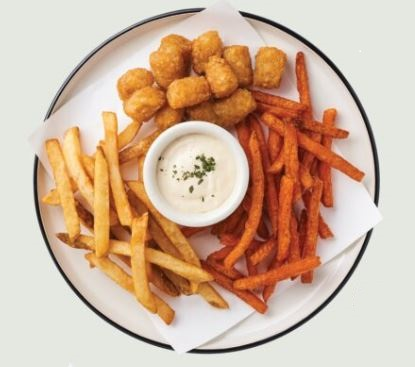
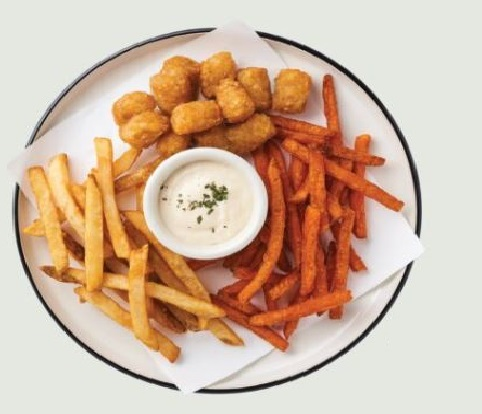
change photo path

diff --git a/database/seeders/ItemSeeder.php b/database/seeders/ItemSeeder.php
@@ -17,135 +17,144 @@ class ItemSeeder extends Seeder
             [
                 'name' => 'Aglio Olio',
                 'description' => 'Olive Oil + Pork Bacon + Mushroom Chicken',
-                'price' => '18.90',
+                'price' => 18.90,
                 'category' => 'food',
-                'photo' => 'public/img/aglio_olio.jpg',
+                'photo' => '/img/aglio_olio.jpg',
                 "created_at" =>  \Carbon\Carbon::now(),
                 "updated_at" => \Carbon\Carbon::now()
             ],
             [
                 'name' => 'Curry Pasta',
                 'description' => 'Homecook Curry Chicken',
-                'price' => '18.90',
+                'price' => 18.90,
                 'category' => 'food',
-                'photo' => 'public/img/curry_pasta.jpg',
+                'photo' => '/img/curry_pasta.jpg',
                 "created_at" =>  \Carbon\Carbon::now(),
                 "updated_at" => \Carbon\Carbon::now()
             ],
             [
                 'name' => 'Pesto Pasta',
                 'description' => 'Homemade Pesto + Mushroom Chicken',
-                'price' => '18.90',
+                'price' => 18.90,
                 'category' => 'food',
-                'photo' => 'public/img/pesto_pasta.jpg',
+                'photo' => '/img/pesto_pasta.jpg',
                 "created_at" =>  \Carbon\Carbon::now(),
                 "updated_at" => \Carbon\Carbon::now()
             ],
             [
                 'name' => 'Bagel Love',
                 'description' => 'Bagel + Egg + Bacon + Greens + Fries',
-                'price' => '18.90',
+                'price' => 18.90,
                 'category' => 'food',
-                'photo' => 'public/img/bagel_love.jpg',
+                'photo' => '/img/bagel_love.jpg',
                 "created_at" =>  \Carbon\Carbon::now(),
                 "updated_at" => \Carbon\Carbon::now()
             ],
             [
                 'name' => 'Fish Fillet Cheese Burger',
                 'description' => 'Sesame Bun + Mozzarella + Deep Sea Fish + Greens + Fries',
-                'price' => '17.90',
+                'price' => 17.90,
                 'category' => 'food',
-                'photo' => 'public/img/fish_fillet_burger.jpg',
+                'photo' => '/img/fish_fillet_burger.jpg',
                 "created_at" =>  \Carbon\Carbon::now(),
                 "updated_at" => \Carbon\Carbon::now()
             ],
             [
                 'name' => 'Chicken Charcoal Burger',
                 'description' => 'Charcoal Bun + Special Marinated Chicken + Greens + Fries',
-                'price' => '21.90',
+                'price' => 21.90,
                 'category' => 'food',
-                'photo' => 'public/img/chicken_charcoal_burger.jpg',
+                'photo' => '/img/chicken_charcoal_burger.jpg',
                 "created_at" =>  \Carbon\Carbon::now(),
                 "updated_at" => \Carbon\Carbon::now()
             ],
             [
                 'name' => 'Mr. Potato',
                 'description' => 'Sweet Potato Fries + Tater Tots + Fries',
-                'price' => '10.00',
+                'price' => 10.00,
                 'category' => 'food',
-                'photo' => 'public/img/chicken_charcoal_burger.jpg',
+                'photo' => '/img/chicken_charcoal_burger.jpg',
                 "created_at" =>  \Carbon\Carbon::now(),
                 "updated_at" => \Carbon\Carbon::now()
             ],
             [
                 'name' => 'Mango Tango',
                 'description' => 'Warm Waffle + Sliced Manage + Vanilla Ice Cream',
-                'price' => '19.90',
+                'price' => 19.90,
                 'category' => 'dessert',
-                'photo' => 'public/img/mango_tango.jpg',
+                'photo' => '/img/mango_tango.jpg',
                 "created_at" =>  \Carbon\Carbon::now(),
                 "updated_at" => \Carbon\Carbon::now()
             ],
             [
                 'name' => 'Nuna Waffle',
                 'description' => 'Sweet Waffle + Nutella + Chocolate Ice Cream',
-                'price' => '14.90',
+                'price' => 14.90,
                 'category' => 'dessert',
-                'photo' => 'public/img/nuna_waffle.jpg',
+                'photo' => '/img/nuna_waffle.jpg',
                 "created_at" =>  \Carbon\Carbon::now(),
                 "updated_at" => \Carbon\Carbon::now()
             ],
             [
                 'name' => 'Passion Dream',
                 'description' => 'Sweet Waffle + Passion Fruit + Vanilla Ice Cream',
-                'price' => '14.90',
+                'price' => 14.90,
                 'category' => 'dessert',
-                'photo' => 'public/img/mango_tango.jpg',
+                'photo' => '/img/mango_tango.jpg',
                 "created_at" =>  \Carbon\Carbon::now(),
                 "updated_at" => \Carbon\Carbon::now()
             ],
             [
                 'name' => 'Banana Kick',
                 'description' => 'Warm Waffle + Sliced Banana + Chocolate Ice Cream',
-                'price' => '18.90',
+                'price' => 18.90,
                 'category' => 'dessert',
-                'photo' => 'public/img/banana_kick.jpg',
+                'photo' => '/img/banana_kick.jpg',
+                "created_at" =>  \Carbon\Carbon::now(),
+                "updated_at" => \Carbon\Carbon::now()
+            ],
+            [
+                'name' => 'Rainbow Love',
+                'description' => 'Sweet Waffle + Mix Fruits + Strawberry Puree + Vanilla Ice Cream',
+                'price' => 19.90,
+                'category' => 'dessert',
+                'photo' => '/img/rainbow_love.jpg',
                 "created_at" =>  \Carbon\Carbon::now(),
                 "updated_at" => \Carbon\Carbon::now()
             ],
             [
                 'name' => 'Latte',
                 'description' => 'Dark roast espresso topped with steamed milk',
-                'price' => '6.90',
+                'price' => 6.90,
                 'category' => 'beverage',
-                'photo' => 'public/img/latte.jpg',
+                'photo' => '/img/latte.jpg',
                 "created_at" =>  \Carbon\Carbon::now(),
                 "updated_at" => \Carbon\Carbon::now()
             ],
             [
                 'name' => 'Cappuccino',
                 'description' => 'Espresso, steamed milk and a sikly layer of foam',
-                'price' => '7.90',
+                'price' => 7.90,
                 'category' => 'beverage',
-                'photo' => 'public/img/cappuccino.jpg',
+                'photo' => '/img/cappuccino.jpg',
                 "created_at" =>  \Carbon\Carbon::now(),
                 "updated_at" => \Carbon\Carbon::now()
             ],
             [
                 'name' => 'Caramel Mocha',
                 'description' => 'Rich chocolate milk, caramel syrup and dark roast espresso',
-                'price' => '11.90',
+                'price' => 11.90,
                 'category' => 'beverage',
-                'photo' => 'public/img/caramel_mocha.jpg',
+                'photo' => '/img/caramel_mocha.jpg',
                 "created_at" =>  \Carbon\Carbon::now(),
                 "updated_at" => \Carbon\Carbon::now()
             ],
             [
                 'name' => 'Caramel Hazelnut',
                 'description' => 'Marriage of caramel and hazelnut, steamed chocolate and deep espresso.',
-                'price' => '11.90',
+                'price' => 11.90,
                 'category' => 'beverage',
-                'photo' => 'public/img/caramel_hazelnut.jpg',
+                'photo' => '/img/caramel_hazelnut.jpg',
                 "created_at" =>  \Carbon\Carbon::now(),
                 "updated_at" => \Carbon\Carbon::now()
             ],

diff --git a/resources/views/welcome.blade.php b/resources/views/welcome.blade.php
@@ -43,8 +43,8 @@
                 border-radius: 0;
             }
             .thumbnail img {
-                width: 100%;
-                height: 100%;
+                width: 250px;
+                height:200px;
                 margin-bottom: 10px;
             }
             .carousel-control.right, .carousel-control.left {
@@ -140,6 +140,11 @@
                 padding: 100px 25px;
                 background-image: linear-gradient(to bottom, rgba(255,255,255,0.5) 0%,rgba(255,255,255,0.8) 100%), url(https://t4.ftcdn.net/jpg/03/17/07/41/360_F_317074154_SWrR7ihvofoFUwNxbd0z5fF8qh707x3Q.jpg);
                 background-size: cover;
+            }
+            
+            #gallery {
+                margin-bottom:0;
+                background-color: #E5E8E1;
             }
 
             .slideanim {visibility:hidden;}
@@ -336,15 +341,15 @@
             </div>
         </section>
 
-        <!-- Container (Portfolio Section) -->
-        <div id="portfolio" class="container-fluid text-center">
+        <!-- Container (Gallery Section) -->
+        <div id="gallery" class="container-fluid text-center">
         <h2>Gallery</h2><br>
         <div class="row text-center">
             @foreach ($items as $item)
-                @if($item->category == "food")
-            <div class="col-sm-4">
+                @if($item->category == "food" || $item->category == "dessert")
+            <div class="col-sm-3">
             <div class="thumbnail">
-                <img src="{{$item->photo}}" alt="Paris" width="400" height="300">
+                <img src="{{url($item->photo)}}" alt="{{$item->name}}">
                 <p><strong>{{$item->name}}</strong></p>
             </div>
             </div>

diff --git a/database/seeders/UserSeeder.php b/database/seeders/UserSeeder.php
@@ -1,7 +1,8 @@
 <?php
 
 namespace Database\Seeders;
-
+use Illuminate\Support\Facades\DB;
+use Illuminate\Support\Facades\Hash;
 use Illuminate\Database\Seeder;
 
 class UserSeeder extends Seeder
@@ -13,6 +14,25 @@ class UserSeeder extends Seeder
      */
     public function run()
     {
-        //
+        DB::table('users')->insert([
+            [
+                'name' => 'Jane Tan',
+                'email'=>'janetan@gmail.com',
+                'password'=> Hash::make(Str::random(8)),
+                'contact_number'=>'0123456789',
+                'role'=>'user',
+                "created_at" =>  \Carbon\Carbon::now(),
+                "updated_at" => \Carbon\Carbon::now()
+            ],
+            [
+                'name' => 'James Ooi',
+                'email'=>'jamesooi@gmail.com',
+                'password'=> Hash::make(Str::random(8)),
+                'contact_number'=>'0123456788',
+                'role'=>'admin',
+                "created_at" =>  \Carbon\Carbon::now(),
+                "updated_at" => \Carbon\Carbon::now()
+            ]
+        ]);
     }
 }

diff --git a/database/migrations/2021_03_29_080435_create_item_table.php b/database/migrations/2021_03_29_080435_create_item_table.php
@@ -19,7 +19,7 @@ class CreateItemTable extends Migration
             $table->string('description');
             $table->decimal('price', $precision = 8, $scale = 2);
             $table->enum('category', ['food', 'beverage', 'dessert']);
-            $table->binary('photo');
+            $table->string('photo');
             $table->timestamps();
         });
     }

diff --git a/database/seeders/DatabaseSeeder.php b/database/seeders/DatabaseSeeder.php
@@ -14,5 +14,9 @@ class DatabaseSeeder extends Seeder
     public function run()
     {
         // \App\Models\User::factory(10)->create();
+        $this->call(UserSeeder::class);
+        $this->call(ItemSeeder::class);
+        $this->call(ReservationSeeder::class);
+        $this->call(FeedbackSeeder::class);
     }
 }
